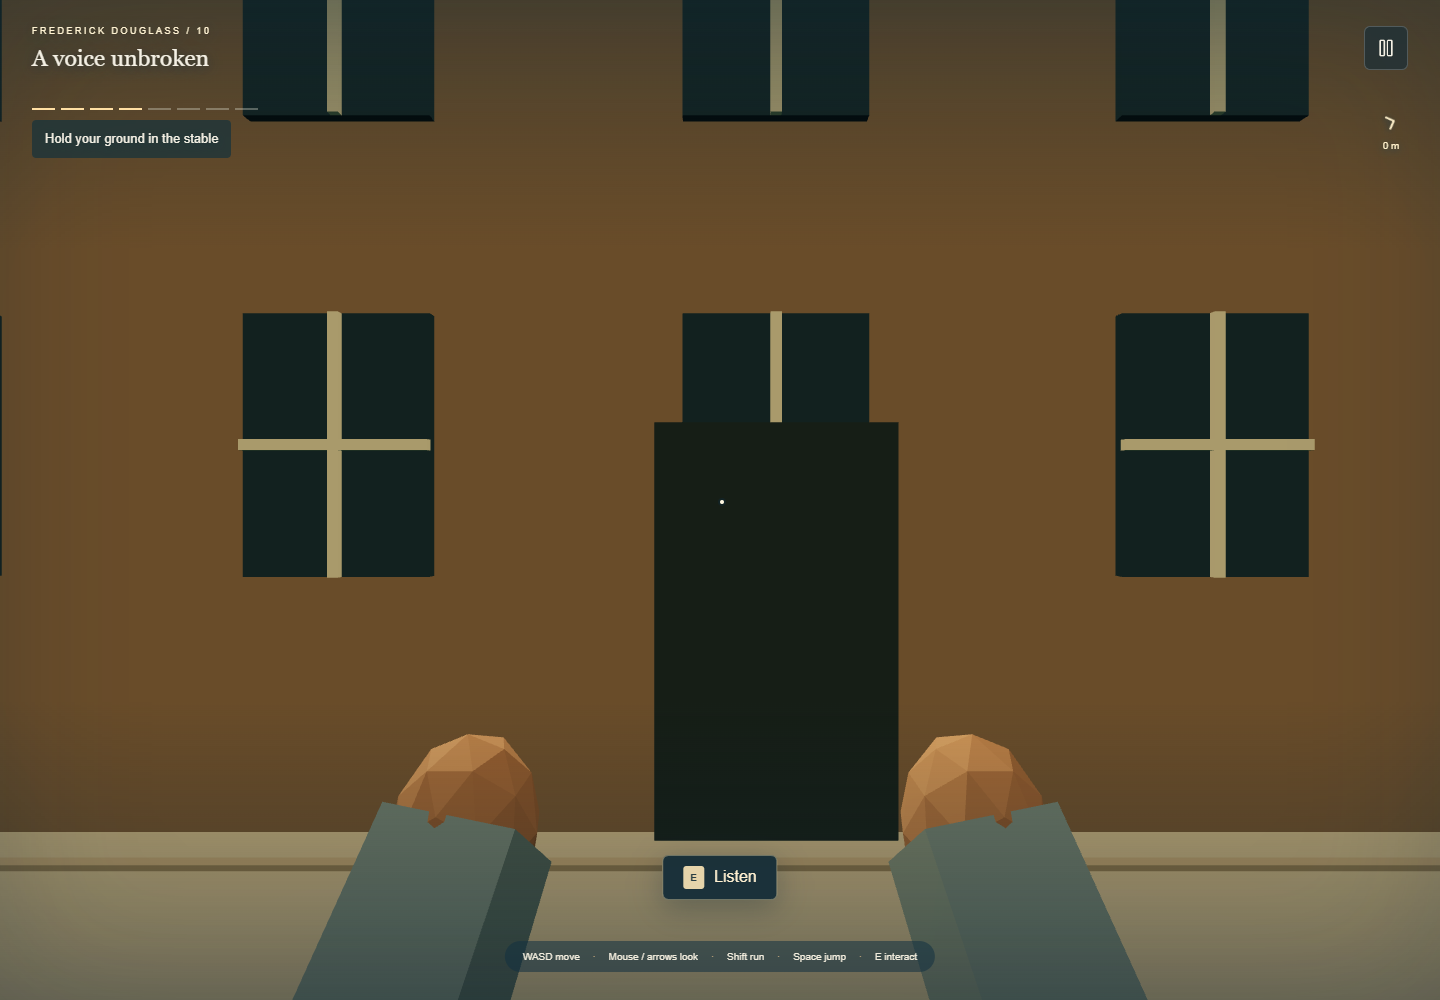
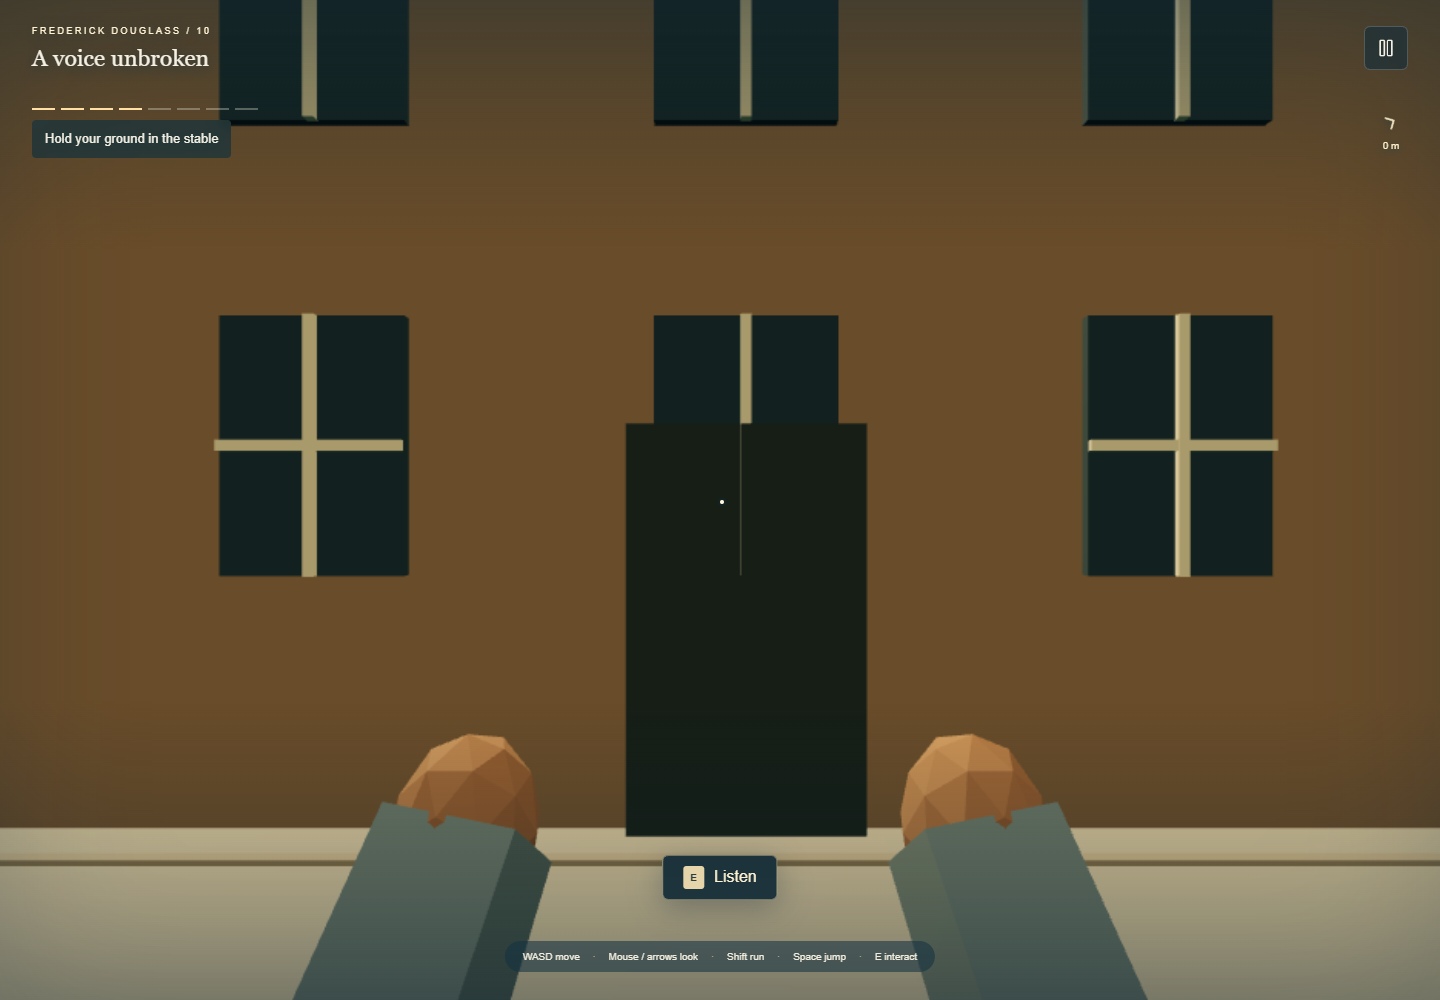
Keep timing input responsive while the 3D world is paused

diff --git a/src/douglass-next/Campaign.tsx b/src/douglass-next/Campaign.tsx
@@ -299,7 +299,9 @@ function GameView({
     }
     let frame = 0,
       previous = performance.now(),
-      lastHUD = 0;
+      lastHUD = 0,
+      lastWorld = 0,
+      previousCinematic: string | undefined;
     const soundscape = audio.context
       ? new Soundscape(audio.context, mission.id, settings.current.music)
       : undefined;
@@ -324,7 +326,18 @@ function GameView({
         sprint: k.has('ShiftLeft') || k.has('ShiftRight'),
       });
       if (engine.collected.length > collected) audio.effect('ring');
-      world.render(now / 1000, settings.current.reduced, cinematic.current, speaking.current);
+      // Paused activities need responsive input, not a full 3D redraw on every animation frame.
+      // Conversations keep their character animation; an occasional redraw handles canvas resizing.
+      if (
+        !blocked.current ||
+        cinematic.current ||
+        previousCinematic !== cinematic.current ||
+        now - lastWorld > 1000
+      ) {
+        world.render(now / 1000, settings.current.reduced, cinematic.current, speaking.current);
+        lastWorld = now;
+      }
+      previousCinematic = cinematic.current;
       soundscape?.update(settings.current.music, engine.paused && !cinematic.current, engine.steps);
       if (now - lastHUD > 80) {
         lastHUD = now;

diff --git a/tests/e2e/douglass-final.spec.ts b/tests/e2e/douglass-final.spec.ts
@@ -141,12 +141,12 @@ async function finishStory(page: Page, chapter: Chapter, stage: number) {
             const left = await page
               .locator('.dn-beat-track b')
               .evaluate((e) => parseFloat((e as HTMLElement).style.left));
-            return left > 61 && left < 73;
+            return left > 60 && left < 69;
           },
           { intervals: [35], timeout: 6000 },
         )
         .toBe(true);
-      await page.locator('.dn-rhythm .dn-primary').click();
+      await page.keyboard.press('Space');
       await expect(page.locator('.dn-beat-pips')).toHaveAttribute(
         'aria-label',
         `${hit + 1} of 4 successful beats`,
